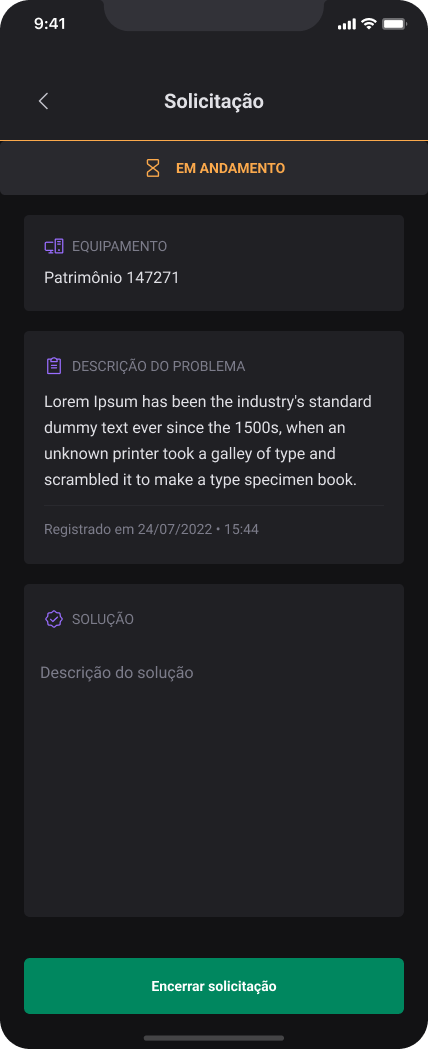
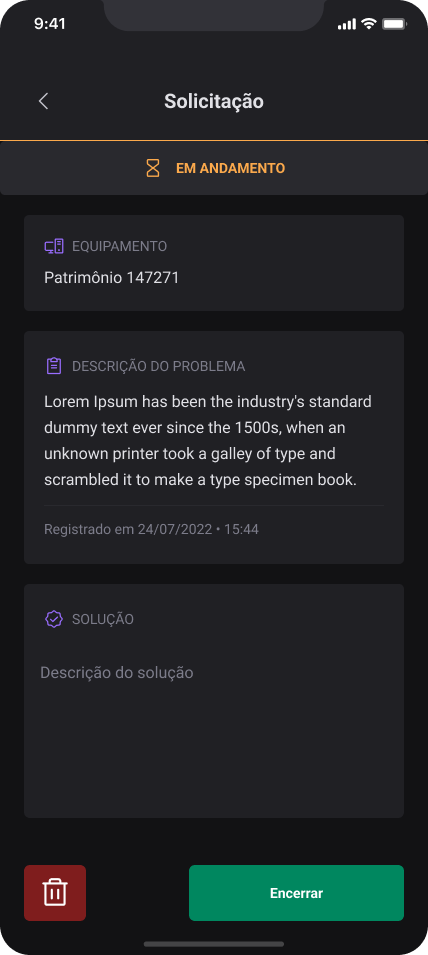
Reabrir e excluir uma solicitação

diff --git a/rockethelp/src/screens/Details.tsx b/rockethelp/src/screens/Details.tsx
@@ -1,10 +1,10 @@
 import { useEffect, useState } from 'react'
 import { Alert } from 'react-native';
-import { VStack, Text, HStack, useTheme, ScrollView, Box } from 'native-base';
+import { VStack, Text, HStack, useTheme, ScrollView, Box, IconButton } from 'native-base';
 import { useNavigation, useRoute } from '@react-navigation/native'
 import firestore from '@react-native-firebase/firestore'
 import { OrderFirestoreDTO } from '../DTOs/OrderFirestoreDTO';
-import { CircleWavyCheck, Hourglass, DesktopTower, Clipboard } from 'phosphor-react-native'
+import { CircleWavyCheck, Hourglass, DesktopTower, Clipboard, Trash } from 'phosphor-react-native'
 
 import Toast from 'react-native-toast-message'
 import { dateFormat } from '../utils/firestoreDateFormat';
@@ -39,7 +39,7 @@ export function Details() {
 
     function handleOrderClose() {
         if (!solution) {
-            return Alert.alert('Solicitação', 'Informe a solução para encerrar a solicitação.')
+            return Alert.alert('Encerrar', 'Informe a solução antes de encerrar.')
         }
 
         firestore()
@@ -61,6 +61,74 @@ export function Details() {
                 console.log(error)
                 Alert.alert('Solicitação', 'Não foi possível encerrar a solicitação.')
             })
+    }
+
+    function handleOrderReopen() {
+        Alert.alert(
+            "Reabrir",
+            "Confirma a reabertura da solicitação?",
+            [
+                {
+                    text: "Cancelar",
+                    style: "cancel"
+                },
+                {
+                    text: "Sim", onPress: () => {
+                        firestore()
+                            .collection<OrderFirestoreDTO>('orders')
+                            .doc(order.id)
+                            .update({
+                                status: 'open',
+                                solution: '',
+                                closed_at: null
+                            })
+                            .then(() => {
+                                Toast.show({
+                                    type: 'success',
+                                    text1: 'Solicitação reaberta com sucesso.',
+                                });
+                                navigation.goBack()
+                            })
+                            .catch((error) => {
+                                console.log(error)
+                                Alert.alert('Solicitação', 'Não foi possível reabrir a solicitação.')
+                            })
+                    }
+                }
+            ]
+        );
+    }
+
+    function handleOrderDelete() {
+        Alert.alert(
+            "Excluir",
+            "Confirma a exclusão da solicitação?",
+            [
+                {
+                    text: "Cancelar",
+                    style: "cancel"
+                },
+                {
+                    text: "Excluir", onPress: () => {
+                        firestore()
+                            .collection<OrderFirestoreDTO>('orders')
+                            .doc(order.id)
+                            .delete()
+                            .then(() => {
+                                Toast.show({
+                                    type: 'success',
+                                    text1: 'Solicitação excluida com sucesso.',
+                                });
+                                navigation.goBack()
+                            })
+                            .catch((error) => {
+                                console.log(error)
+                                Alert.alert('Solicitação', 'Não foi possível excluir a solicitação.')
+                            })
+                    }
+                }
+            ]
+        );
     }
 
     useEffect(() => {
@@ -148,15 +216,33 @@ export function Details() {
                     }
                 </CardDetails>
             </ScrollView>
-            {
-                order.status === 'open' &&
-                <Button
-                    title='Encerrar solicitação'
-                    m={5}
-                    mb={2}
-                    onPress={handleOrderClose}
+
+            <HStack space={20} mt={10} mb={2} mx={5}>
+                <IconButton
+                    icon={<Trash size={26} color={colors.white} />}
+                    rounded='sm'
+                    variant='solid'
+                    bg='red.900'
+                    px={3}
+                    _pressed={{ bg: 'red.500' }}
+                    onPress={handleOrderDelete}
                 />
-            }
+
+                {
+                    order.status === 'open' ?
+                        <Button
+                            title='Encerrar'
+                            flex={1}
+                            onPress={handleOrderClose}
+                        />
+                        :
+                        <Button
+                            title='Reabrir'
+                            flex={1}
+                            onPress={handleOrderReopen}
+                        />
+                }
+            </HStack>
         </VStack>
     );
 }

diff --git a/rockethelp/src/screens/Home.tsx b/rockethelp/src/screens/Home.tsx
@@ -150,7 +150,7 @@ export function Home() {
                         />
                 }
 
-                <Button title="Nova solicitação" onPress={handleNewOrder} />
+                <Button title="Nova solicitação" mt={3} onPress={handleNewOrder} />
             </VStack>
         </VStack>
     );

diff --git a/README.md b/README.md
@@ -55,5 +55,11 @@ Projeto criado com Expo. Veja a [documentação oficial](https://docs.expo.dev/g
 - [Expo](https://docs.expo.dev)
 - [Firebase](https://firebase.google.com/docs)
 
+### 🚀 Implementações realizadas por mim
+
+- Utilização da biblioteca [date-fns](https://date-fns.org/) para formatar a exibição das datas e horários
+- Utilização da biblioteca [react-native-toast-message](https://www.npmjs.com/package/react-native-toast-message) para exibir avisos
+- Possibilidade de reabrir e excluir uma solicitação
+
 ## 📄 Protótipo
 - [Figma](https://www.figma.com/file/hBvQxaEdnjKJspMGA0SfYS/Rocket-Help---Evento-Ignite-Lab-%7C-React-Native?node-id=37%3A6)
